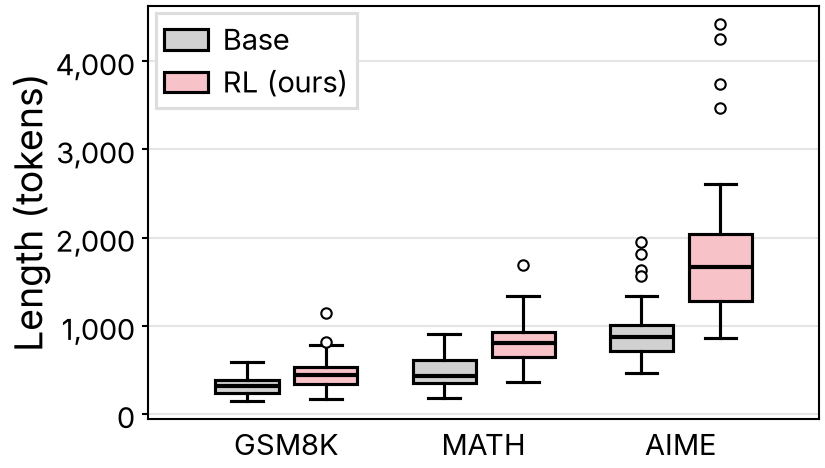
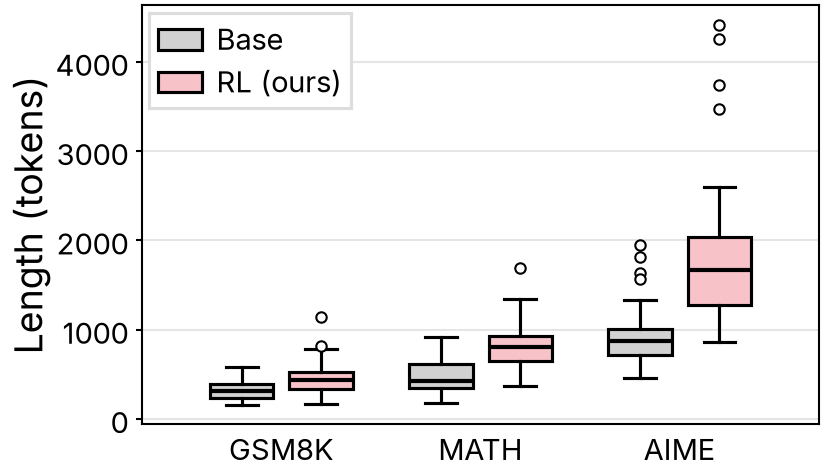
Ablations in grey, all-or-none bar labels, fine log grid, light gap bars
- Ours against its own ablation: the ablated variant is a grey compared series
- Bar labels on every bar or none; full width when they still overlap
- Thinned tick labels keep a tick and gridline at every step
- Reliability gap: opaque light series-2 fill drawn over the accuracy bar
- Tick labels without thousands separators below 10,000

diff --git a/examples/use-cases/scripts/reliability-diagram.py b/examples/use-cases/scripts/reliability-diagram.py
@@ -1,4 +1,4 @@
-"""Figure 1: Confidence histograms (top) and reliability diagrams (bottom) for a 5-layer LeNet (left) and a 110-layer ResNet (right) on CIFAR-100. In the histograms, dashed and dotted lines mark the average confidence and the accuracy; in the reliability diagrams, the dashed diagonal marks perfect calibration and outlines show the gap to the mean confidence. LeNet is well calibrated (ECE 4.92%), while the more accurate ResNet is overconfident: its average confidence of 0.884 exceeds its accuracy of 0.705 (ECE 18.2%)."""
+"""Figure 1: Confidence histograms (top) and reliability diagrams (bottom) for a 5-layer LeNet (left) and a 110-layer ResNet (right) on CIFAR-100. In the histograms, dashed and dotted lines mark the average confidence and the accuracy; in the reliability diagrams, the dashed diagonal marks perfect calibration and light red bars show the gap to the mean confidence. LeNet is well calibrated (ECE 4.92%), while the more accurate ResNet is overconfident: its average confidence of 0.884 exceeds its accuracy of 0.705 (ECE 18.2%)."""
 
 import json
 import sys
@@ -9,7 +9,7 @@ from matplotlib import rcParams
 
 sys.path.insert(0, "../../../skills/academic-figure/assets")
 import paper  # registers the bundled Inter font
-from paper import fit_height
+from paper import fit_height, lighten
 
 colors = paper.use_design("../../../skills/academic-figure/assets/DESIGN.md")
 
@@ -35,8 +35,8 @@ for col, model in enumerate(data["models"].values()):
     bottom.bar(rel_edges[:-1], accuracy, width=np.diff(rel_edges), align="edge", color=colors["series-1"],
                edgecolor="white", linewidth=rcParams["grid.linewidth"], label="Outputs")
     bottom.bar(rel_edges[:-1], np.abs(confidence - accuracy), bottom=np.minimum(accuracy, confidence),
-               width=np.diff(rel_edges), align="edge", fill=False, edgecolor=colors["ink"],
-               linewidth=rcParams["patch.linewidth"], label="Gap")
+               width=np.diff(rel_edges), align="edge", color=lighten(colors["series-2"]), edgecolor=colors["series-2"],
+               linewidth=rcParams["grid.linewidth"], label="Gap")
     bottom.axline((0, 0), (1, 1), linestyle="--", linewidth=paper.dashed_width, color=colors["neutral"], zorder=1)
     bottom.text(0.96, 0.04, f"Error={model['error_percent']}", transform=bottom.transAxes, ha="right", va="bottom",
                 bbox=dict(facecolor="white", edgecolor="none", pad=1))
@@ -48,8 +48,8 @@ for ax in axes.flat:
     ax.set_ylim(0, 1)
     ax.set_xticks([0, 0.5, 1])
     ax.set_yticks([0, 0.5, 1])
-    ax.xaxis.set_major_formatter(lambda v, _: f"{v:,.10g}")
-    ax.yaxis.set_major_formatter(lambda v, _: f"{v:,.10g}")
+    ax.xaxis.set_major_formatter(lambda v, _: f"{v:.10g}")
+    ax.yaxis.set_major_formatter(lambda v, _: f"{v:.10g}")
 axes[0, 0].set_ylabel("% of Samples")
 axes[1, 0].set_ylabel("Accuracy")
 axes[0, 0].legend(loc="upper left")

diff --git a/examples/use-cases/scripts/dapo-fig6.py b/examples/use-cases/scripts/dapo-fig6.py
@@ -15,21 +15,21 @@ data = json.load(open("../data/dapo.json"))["fig6"]
 
 fig, ax = plt.subplots(figsize=(2.75, 2))
 series = [
-    ("w/ Dynamic Sampling", "-", {}),
-    ("w/o Dynamic Sampling", "--", {"linewidth": paper.dashed_width}),
+    ("w/ Dynamic Sampling", colors["ours"]),
+    ("w/o Dynamic Sampling", colors["neutral"]),
 ]
-for name, linestyle, width in series:
+for name, color in series:
     curve = data[name]
-    ax.plot(curve["step"], curve["value"], linestyle, color=colors["ours"], label=name, **width)
-for name, _, _ in series:
+    ax.plot(curve["step"], curve["value"], color=color, label=name)
+for name, color in series:
     curve = data[name]
     best = max(curve["value"])
-    mark_value(ax, curve["step"][curve["value"].index(best)], best, f"{best:#.3g}", colors["ours"])
+    mark_value(ax, curve["step"][curve["value"].index(best)], best, f"{best:#.3g}", color)
 
 ax.set_xlabel("Training steps")
 ax.set_ylabel("AIME avg@32")
-ax.xaxis.set_major_formatter(lambda v, _: f"{v:,.10g}".replace("-", "−"))
-ax.yaxis.set_major_formatter(lambda v, _: f"{v:,.10g}".replace("-", "−"))
+ax.xaxis.set_major_formatter(lambda v, _: f"{v:.10g}".replace("-", "−"))
+ax.yaxis.set_major_formatter(lambda v, _: f"{v:.10g}".replace("-", "−"))
 ax.legend(loc="lower right")
 
 fit_height(fig, ax, aspect=0.618)

diff --git a/examples/use-cases/scripts/dapo-fig2.py b/examples/use-cases/scripts/dapo-fig2.py
@@ -15,21 +15,21 @@ data = json.load(open("../data/dapo.json"))["fig2a"]
 
 fig, ax = plt.subplots(figsize=(2.75, 2))
 series = [
-    ("w/ Clip-Higher", "-", {}),
-    ("w/o Clip-Higher", "--", {"linewidth": paper.dashed_width}),
+    ("w/ Clip-Higher", colors["ours"]),
+    ("w/o Clip-Higher", colors["neutral"]),
 ]
-for name, linestyle, width in series:
+for name, color in series:
     curve = data[name]
-    ax.plot(curve["step"], curve["value"], linestyle, color=colors["ours"], label=name, **width)
-for name, _, _ in series:
+    ax.plot(curve["step"], curve["value"], color=color, label=name)
+for name, color in series:
     curve = data[name]
     best = max(curve["value"])
-    mark_value(ax, curve["step"][curve["value"].index(best)], best, f"{best:#.3g}", colors["ours"])
+    mark_value(ax, curve["step"][curve["value"].index(best)], best, f"{best:#.3g}", color)
 
 ax.set_xlabel("Training steps")
 ax.set_ylabel("AIME avg@32")
-ax.xaxis.set_major_formatter(lambda v, _: f"{v:,.10g}".replace("-", "−"))
-ax.yaxis.set_major_formatter(lambda v, _: f"{v:,.10g}".replace("-", "−"))
+ax.xaxis.set_major_formatter(lambda v, _: f"{v:.10g}".replace("-", "−"))
+ax.yaxis.set_major_formatter(lambda v, _: f"{v:.10g}".replace("-", "−"))
 ax.legend(loc="lower right")
 
 fit_height(fig, ax, aspect=0.618)

diff --git a/examples/use-cases/scripts/rlvr-fig5.py b/examples/use-cases/scripts/rlvr-fig5.py
@@ -14,15 +14,14 @@ colors = paper.use_design("../../../skills/academic-figure/assets/DESIGN.md")
 
 data = json.load(open("../data/rlvr-fig5.json"))
 bins = data["bins"]
-cited = ["0.0", "(0.0,0.1]", "1.0"]
 
-fig, ax = plt.subplots(figsize=(2.75, 2))
+fig, ax = plt.subplots(figsize=(5.5, 2))
 x = np.arange(len(bins))
 width = 0.8 / 2
 for i, (name, color) in enumerate([("Base", colors["series-1"]), ("RL", colors["series-2"])]):
     counts = data[name]
     bars = ax.bar(x + (i - 0.5) * width, counts, width, color=color, linewidth=0, label=name)
-    ax.bar_label(bars, labels=[f"{c:,}" if b in cited else "" for b, c in zip(bins, counts)], color=paper.darken(color), rotation=90, padding=2)
+    ax.bar_label(bars, labels=[f"{c}" for c in counts], color=paper.darken(color), rotation=90, padding=2)
 
 ax.set_xticks(x, labels=bins, rotation=45, ha="right", rotation_mode="anchor")
 ax.tick_params(axis="x", length=0)
@@ -31,6 +30,6 @@ ax.set_xlabel("Accuracy")
 ax.set_ylabel("Count")
 ax.legend(loc="upper center")
 
-fit_height(fig, ax, aspect=0.618)
+fit_height(fig, ax, aspect=0.382)
 fig.savefig("../outputs/rlvr-fig5.pdf")
 fig.savefig("../outputs/rlvr-fig5.png")

diff --git a/examples/chart-types/scripts/confidence-histogram.py b/examples/chart-types/scripts/confidence-histogram.py
@@ -23,10 +23,10 @@ for name, values, color in series:
     ax.hist(values, bins=bins, density=True, histtype="stepfilled", color=color, alpha=0.2, linewidth=0)
     ax.hist(values, bins=bins, density=True, histtype="step", color=color, label=name)
 ax.set_xlim(0, 1)
-ax.xaxis.set_major_formatter(lambda v, _: f"{v:,.10g}".replace("-", "−"))
+ax.xaxis.set_major_formatter(lambda v, _: f"{v:.10g}".replace("-", "−"))
 lo, hi = ax.get_ylim()
 ticks = [t for t in ax.get_yticks() if lo <= t <= hi]
-ax.set_yticks(ticks, labels=["", *[f"{t:,.10g}" for t in ticks[1:]]])
+ax.set_yticks(ticks, labels=["", *[f"{t:.10g}" for t in ticks[1:]]])
 ax.grid(axis="x", visible=False)
 ax.set_xlabel("Confidence")
 ax.set_ylabel("Density")

diff --git a/examples/use-cases/scripts/roc-curve.py b/examples/use-cases/scripts/roc-curve.py
@@ -32,8 +32,8 @@ for name, label, color, linestyle, marker in [
 ax.set_xlim(0, 1)
 ax.set_ylim(0, 1)
 ticks = [0, 0.2, 0.4, 0.6, 0.8, 1]
-ax.set_xticks(ticks, labels=[f"{t:,.10g}" for t in ticks])
-ax.set_yticks(ticks, labels=["", *[f"{t:,.10g}" for t in ticks[1:]]])
+ax.set_xticks(ticks, labels=[f"{t:.10g}" for t in ticks])
+ax.set_yticks(ticks, labels=["", *[f"{t:.10g}" for t in ticks[1:]]])
 ax.set_xlabel("False positive rate")
 ax.set_ylabel("True positive rate")
 ax.legend(handles=handles, loc="lower center", bbox_to_anchor=(0.5, 1), borderaxespad=0.5, ncol=1, frameon=False)

diff --git a/examples/chart-types/scripts/grouped-box-plot.py b/examples/chart-types/scripts/grouped-box-plot.py
@@ -28,7 +28,7 @@ for i, (name, color) in enumerate(series):
 ax.set_xticks(range(len(datasets)), labels=datasets)
 ax.tick_params(axis="x", length=0)
 ax.grid(axis="x", visible=False)
-ax.yaxis.set_major_formatter(lambda v, _: f"{v:,.10g}".replace("-", "−"))
+ax.yaxis.set_major_formatter(lambda v, _: f"{v:.10g}".replace("-", "−"))
 ax.set_ylabel("Length (tokens)")
 ax.legend(handles=[Patch(facecolor=lighten(color), edgecolor=colors["ink"], linewidth=rcParams["patch.linewidth"], label=name)
                    for name, color in series], loc="upper left")

diff --git a/examples/use-cases/scripts/rlvr-fig2.py b/examples/use-cases/scripts/rlvr-fig2.py
@@ -27,10 +27,10 @@ for r, model in enumerate(models):
             style = "-" if len(curve["k"]) > 30 else marker + "-"
             ax.plot(curve["k"], curve["pass"], style, color=color, label=name)
 
-ks = [1, 32, 1024]
+ks = [2 ** e for e in range(11)]
 margin = 2 ** (0.05 * math.log2(ks[-1] / ks[0]))
 ax.set_xscale("log", base=2)
-ax.set_xticks(ks, labels=[str(k) for k in ks])
+ax.set_xticks(ks, labels=[str(k) if i % 5 == 0 else "" for i, k in enumerate(ks)])
 ax.set_xticks([], minor=True)
 ax.set_xlim(ks[0] / margin, ks[-1] * margin)
 ax.set_ylim(0, 1)

diff --git a/examples/use-cases/scripts/scaling-law.py b/examples/use-cases/scripts/scaling-law.py
@@ -30,7 +30,7 @@ ax.grid(True, which="both")
 ax.set_xticks([1e4, 1e5, 1e6, 1e7, 1e8, 1e9], labels=["10K", "100K", "1M", "10M", "100M", "1B"])
 ax.xaxis.set_minor_formatter(NullFormatter())
 y_ticks = data["axes"]["y_ticks"]
-ax.set_yticks(y_ticks, labels=[f"{t:,.10g}" for t in y_ticks])
+ax.set_yticks(y_ticks, labels=[f"{t:.10g}" for t in y_ticks])
 ax.yaxis.set_minor_formatter(NullFormatter())
 ax.set_xlabel("Parameters (non-embedding)")
 ax.set_ylabel("Test loss (nats/token)")

diff --git a/examples/chart-types/scripts/grouped-bar-chart.py b/examples/chart-types/scripts/grouped-bar-chart.py
@@ -29,7 +29,7 @@ ax.set_xticks(x, labels=benchmarks)
 ax.tick_params(axis="x", length=0)
 ax.grid(axis="x", visible=False)
 ax.set_ylabel("Accuracy")
-ax.yaxis.set_major_formatter(lambda v, _: f"{v:,.10g}".replace("-", "−"))
+ax.yaxis.set_major_formatter(lambda v, _: f"{v:.10g}".replace("-", "−"))
 ax.legend(loc="lower center", bbox_to_anchor=(0.5, 1), borderaxespad=0.5, ncol=len(methods), frameon=False)
 
 fit_height(fig, ax, aspect=0.618)

diff --git a/examples/chart-types/scripts/reward-distribution.py b/examples/chart-types/scripts/reward-distribution.py
@@ -35,7 +35,7 @@ for x, (name, color) in enumerate(series):
 ax.set_xticks(range(len(series)), labels=[name for name, _ in series])
 ax.tick_params(axis="x", length=0)
 ax.grid(axis="x", visible=False)
-ax.yaxis.set_major_formatter(lambda v, _: f"{v:,.10g}".replace("-", "−"))
+ax.yaxis.set_major_formatter(lambda v, _: f"{v:.10g}".replace("-", "−"))
 ax.set_ylabel("Reward")
 
 fit_height(fig, ax, aspect=0.618)

diff --git a/examples/use-cases/scripts/rlvr-fig6.py b/examples/use-cases/scripts/rlvr-fig6.py
@@ -33,7 +33,7 @@ ax.set_yticks(range(len(groups)), labels=[label for _, label in groups])
 ax.invert_yaxis()
 ax.tick_params(axis="y", length=0)
 ax.grid(axis="y", visible=False)
-ax.xaxis.set_major_formatter(lambda v, _: f"{v:,.10g}".replace("-", "−"))
+ax.xaxis.set_major_formatter(lambda v, _: f"{v:.10g}".replace("-", "−"))
 ax.set_xlabel("Perplexity")
 
 fit_height(fig, ax, aspect=0.618)
